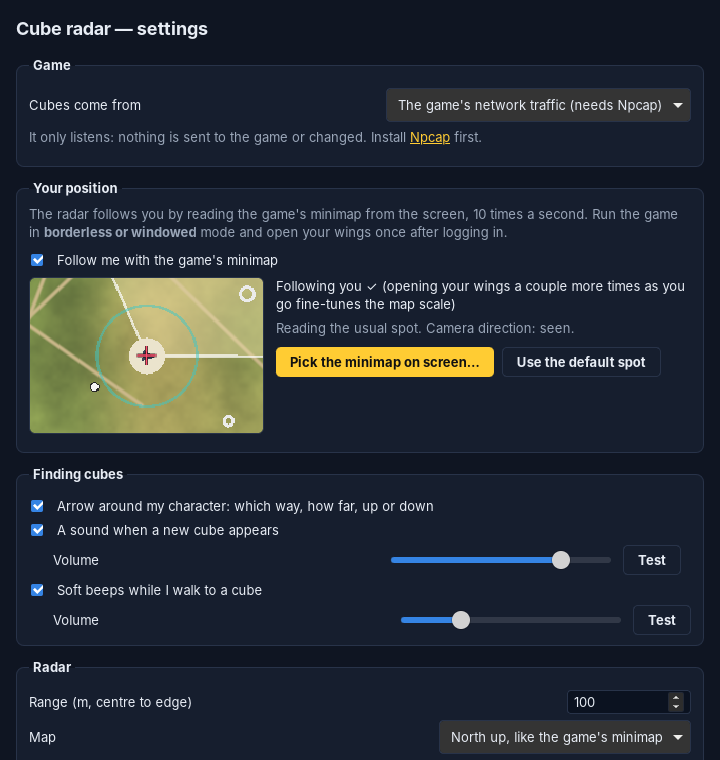
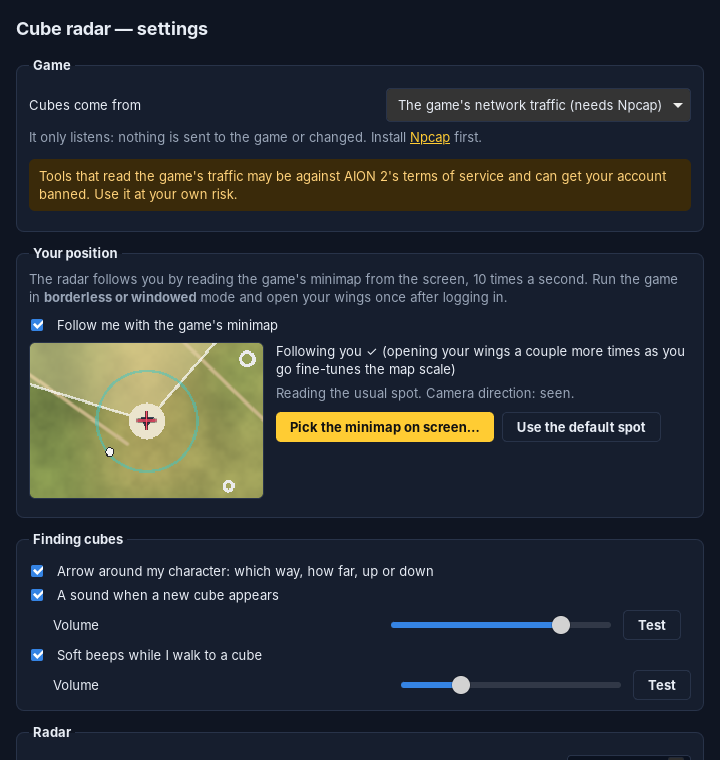
Release polish: terms-of-service note at the opt-in, plain first-run text
- Settings: choosing the game's network traffic shows, right under the
  choice, that such tools may be against AION 2's terms of service and can
  get an account banned. The made-up demo stays the default (docs/03:
  a source must be permitted by the game's terms before it is the
  default), so reading the traffic is always a choice made knowingly.
- Radar: with live capture and no position yet, the banner says "open
  your wings once in the game" instead of "capturing on N adapter(s)".
- Without Npcap the error says to install it with the default options and
  restart the radar (a failed source does not retry by itself).
- README/CHANGELOG and the settings screenshot updated (taken from the
  app against the synthetic AION 2 session).

Claude-Session: https://claude.ai/code/session_017iATkP1dLDyCjwdpsVQWby

diff --git a/src/radar.ts b/src/radar.ts
@@ -193,6 +193,11 @@ function bannerText(frame: RadarFrame | null, backendSilent: boolean): string | 
   if (src?.state === "disabled") return "No data source configured";
   if (!frame.player) {
     if (src?.state === "waiting") return `Waiting for telemetry — ${src.detail}`;
+    // Live capture: the server reports your own position only with events,
+    // and opening the wings is the one a player can do at any time.
+    if (src?.state === "connected" && /^Packet capture/.test(src.name) && !/census only/.test(src.detail)) {
+      return "Waiting for your position — open your wings once in the game";
+    }
     return src?.detail ? `Waiting for player position — ${src.detail}` : "Waiting for player position";
   }
   if (frame.player.stale) {

diff --git a/settings.html b/settings.html
@@ -33,6 +33,10 @@
             It only listens: nothing is sent to the game or changed. Install
             <a href="https://npcap.com" target="_blank" rel="noreferrer">Npcap</a> first.
           </p>
+          <p class="note warn" data-source="packet_capture">
+            Tools that read the game's traffic may be against AION 2's terms of service and can get your account
+            banned. Use it at your own risk.
+          </p>
           <div data-source="replay">
             <label>File <input name="dataSource.path" type="text" placeholder="C:\path\to\session.jsonl" /></label>
           </div>

diff --git a/crates/radar-capture/src/live.rs b/crates/radar-capture/src/live.rs
@@ -27,7 +27,7 @@ const IF_LOOPBACK: c_uint = 0x1;
 pub enum CaptureError {
     #[error(
         "packet capture library not found ({0}). On Windows install Npcap from https://npcap.com \
-         (keep \"WinPcap API-compatible mode\" either way; both locations are tried)"
+         (default options), then restart the radar"
     )]
     NoLibrary(String),
     #[error("{0}")]

diff --git a/README.md b/README.md
@@ -218,7 +218,7 @@ file is kept as `settings.json.bak` and replaced with defaults.
 6. If the radar looks mirrored compared with the minimap, switch *Map north*
    to +Y (*More settings → Game traffic*).
 
-<img src="docs/images/settings.png" width="420" alt="The settings window: Game (cubes come from the game's network traffic), Your position (minimap preview and 'Following you ✓'), Finding cubes (arrow, new-cube sound, soft beeps with their volumes), Radar">
+<img src="docs/images/settings.png" width="420" alt="The settings window: Game (cubes come from the game's network traffic, with the note that this may be against the game's terms of service), Your position (minimap preview and 'Following you ✓'), Finding cubes (arrow, new-cube sound, soft beeps with their volumes), Radar">
 
 ### Your position
 

diff --git a/CHANGELOG.md b/CHANGELOG.md
@@ -44,6 +44,11 @@ how far it is and whether it is up or down.
   themselves.
 - Reading the client's own movement packets is off by default: the game
   encrypts what the client sends.
+- Choosing the game's network traffic in Settings now says, right there, that
+  such tools may be against AION 2's terms of service and can get an account
+  banned. The made-up demo stays the default until you choose.
+- Before your first position the radar says to open your wings once; without
+  Npcap it says to install it and restart the radar.
 
 ### Fixed
 
